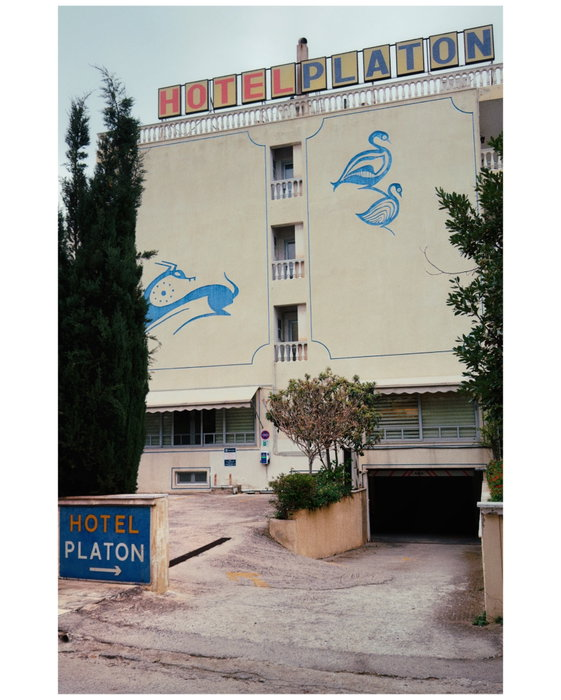
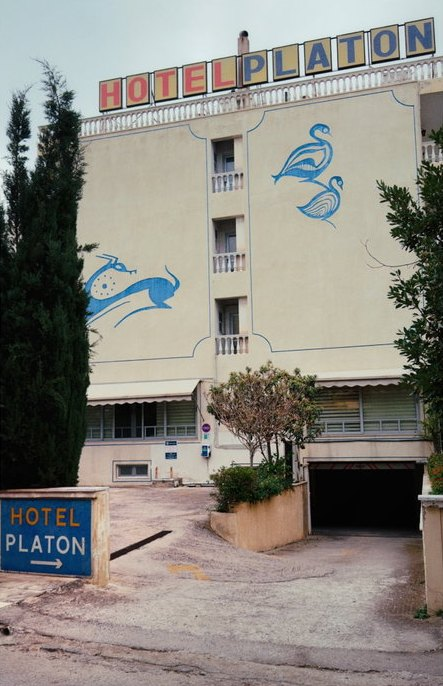
Instagram grid: trim white frames so posts fill their tiles
Claude-Session: https://claude.ai/code/session_01VvB7EzosFDuBfxfpDAzKnE

diff --git a/index.html b/index.html
@@ -741,12 +741,12 @@ footer .logo .logo-mark{height:52px}
     </div>
     <div class="ig-grid">
       <!-- IG:START -->
-      <a href="https://www.instagram.com/p/DfpIuyfxV44/" target="_blank" rel="noopener" aria-label="And sometimes, when walking through a random neighbourhood on your way back from an entirely different…, on Instagram"><img src="img/ig/18112932761224122.jpg" alt="And sometimes, when walking through a random neighbourhood on your way back from an entirely different…" width="561" height="700" loading="lazy"></a>
-      <a href="https://www.instagram.com/p/DfcagiWR64F/" target="_blank" rel="noopener" aria-label="Fading Athens Instagram post from 7 November 2026, on Instagram"><img src="img/ig/18119381599814592.jpg" alt="Fading Athens Instagram post from 7 November 2026" width="561" height="700" loading="lazy"></a>
+      <a href="https://www.instagram.com/p/DfpIuyfxV44/" target="_blank" rel="noopener" aria-label="And sometimes, when walking through a random neighbourhood on your way back from an entirely different…, on Instagram"><img src="img/ig/18112932761224122.jpg" alt="And sometimes, when walking through a random neighbourhood on your way back from an entirely different…" width="443" height="686" loading="lazy"></a>
+      <a href="https://www.instagram.com/p/DfcagiWR64F/" target="_blank" rel="noopener" aria-label="Fading Athens Instagram post from 7 November 2026, on Instagram"><img src="img/ig/18119381599814592.jpg" alt="Fading Athens Instagram post from 7 November 2026" width="407" height="686" loading="lazy"></a>
       <a href="https://www.instagram.com/p/DfXOXauja8k/" target="_blank" rel="noopener" aria-label="It’s impossible not to fall in love with this time capsule train station♥, on Instagram"><img src="img/ig/18078469061721892.jpg" alt="It’s impossible not to fall in love with this time capsule train station♥" width="700" height="393" loading="lazy"></a>
-      <a href="https://www.instagram.com/p/DfUn8MzO5v4/" target="_blank" rel="noopener" aria-label="Fading Athens Instagram post from 4 November 2026, on Instagram"><img src="img/ig/17910612405575960.jpg" alt="Fading Athens Instagram post from 4 November 2026" width="561" height="700" loading="lazy"></a>
-      <a href="https://www.instagram.com/p/DfR_6MiRXyp/" target="_blank" rel="noopener" aria-label="Fading Athens Instagram post from 3 November 2026, on Instagram"><img src="img/ig/18104670437639966.jpg" alt="Fading Athens Instagram post from 3 November 2026" width="561" height="700" loading="lazy"></a>
-      <a href="https://www.instagram.com/p/DfPa7CSN9zR/" target="_blank" rel="noopener" aria-label="Fading Athens Instagram post from 2 November 2026, on Instagram"><img src="img/ig/18100989449653832.jpg" alt="Fading Athens Instagram post from 2 November 2026" width="561" height="700" loading="lazy"></a>
+      <a href="https://www.instagram.com/p/DfUn8MzO5v4/" target="_blank" rel="noopener" aria-label="Fading Athens Instagram post from 4 November 2026, on Instagram"><img src="img/ig/17910612405575960.jpg" alt="Fading Athens Instagram post from 4 November 2026" width="403" height="686" loading="lazy"></a>
+      <a href="https://www.instagram.com/p/DfR_6MiRXyp/" target="_blank" rel="noopener" aria-label="Fading Athens Instagram post from 3 November 2026, on Instagram"><img src="img/ig/18104670437639966.jpg" alt="Fading Athens Instagram post from 3 November 2026" width="425" height="686" loading="lazy"></a>
+      <a href="https://www.instagram.com/p/DfPa7CSN9zR/" target="_blank" rel="noopener" aria-label="Fading Athens Instagram post from 2 November 2026, on Instagram"><img src="img/ig/18100989449653832.jpg" alt="Fading Athens Instagram post from 2 November 2026" width="397" height="686" loading="lazy"></a>
       <!-- IG:END -->
     </div>
   </div>

diff --git a/scripts/update_instagram.py b/scripts/update_instagram.py
@@ -14,6 +14,7 @@ import os
 import re
 import sys
 import urllib.request
+from io import BytesIO
 from datetime import datetime
 
 FEED_URL = os.environ.get("BEHOLD_FEED_URL", "https://feeds.behold.so/CmqoCA1Y8TwNuQvf8MLW")
@@ -29,6 +30,29 @@ def get(url):
     req = urllib.request.Request(url, headers=UA)
     with urllib.request.urlopen(req, timeout=30) as r:
         return r.read(), r.headers.get_content_type()
+
+
+def trim_white_frame(data):
+    """Many posts have a white frame baked in; crop it off so tiles fill edge to edge."""
+    try:
+        from PIL import Image, ImageChops
+    except ImportError:
+        return data, None
+    im = Image.open(BytesIO(data)).convert("RGB")
+    bg = Image.new("RGB", im.size, (255, 255, 255))
+    # pixels that differ clearly from white
+    diff = ImageChops.difference(im, bg).convert("L").point(lambda v: 255 if v > 22 else 0)
+    box = diff.getbbox()
+    if box:
+        w, h = im.size
+        l, t, r, b = box
+        # only crop a real frame (at least 2% on some side), keep a hair of margin inside
+        if max(l, t, w - r, h - b) > 0.02 * min(w, h):
+            pad = 2
+            im = im.crop((min(l + pad, w), min(t + pad, h), max(r - pad, 0), max(b - pad, 0)))
+    out = BytesIO()
+    im.save(out, "JPEG", quality=86, optimize=True, progressive=True)
+    return out.getvalue(), im.size
 
 
 def alt_text(post):
@@ -70,7 +94,8 @@ def main():
             name = existing[0]
         else:
             data, ctype = get(url)
-            name = f'{p["id"]}.{EXT.get(ctype, "jpg")}'
+            data, dims = trim_white_frame(data)
+            name = f'{p["id"]}.{"jpg" if dims else EXT.get(ctype, "jpg")}'
             with open(os.path.join(IG_DIR, name), "wb") as f:
                 f.write(data)
         keep.add(name)
